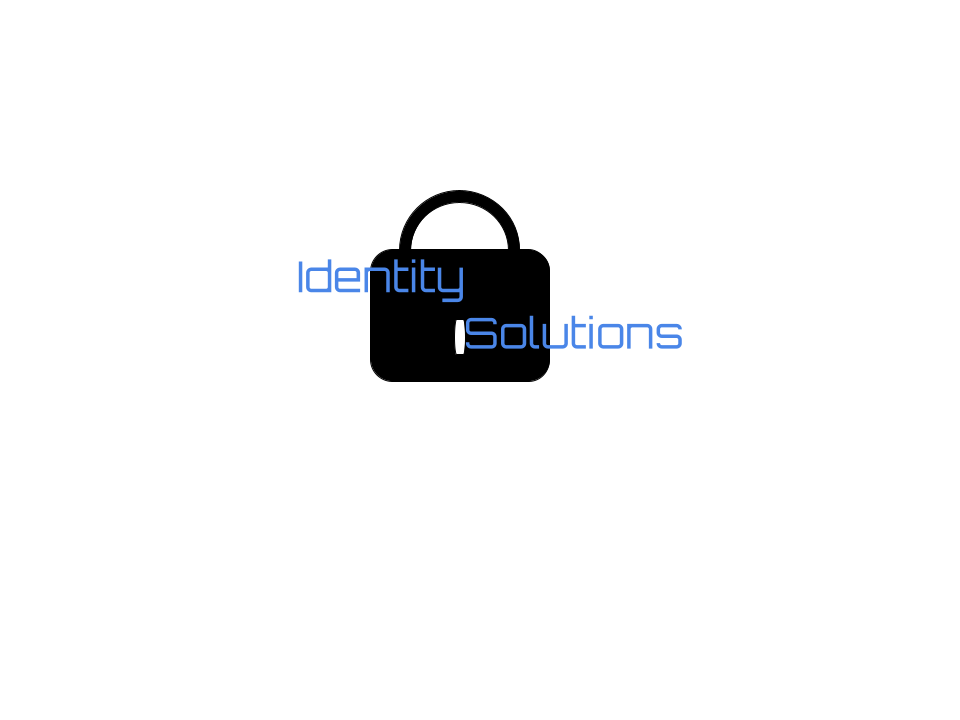
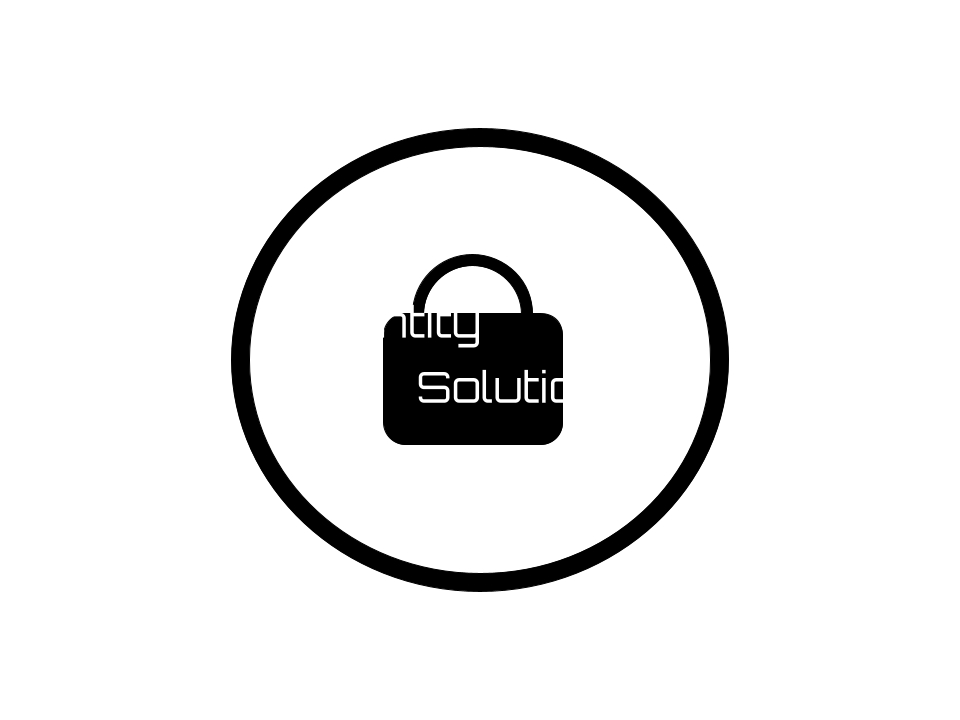
lala

Changed region(s): [[0.2188, 0.1528, 0.7812, 0.825]]

diff --git a/templates/sign_up.html b/templates/sign_up.html
@@ -1,115 +1,50 @@
 <!DOCTYPE html>
 <html lang="en">
-  <head>
+<head>
     <meta charset="UTF-8" />
     <meta name="viewport" content="width=device-width, initial-scale=1.0" />
     <title>Sign Up</title>
-    <style>
-      body {
-          font-family: Arial, sans-serif;
-          background-color: #f2f2f2;
-          margin: 0;
-          padding: 0;
-          display: flex;
-          justify-content: center;
-          align-items: center;
-          height: 100vh;
-      }
-
-      .container {
-          background-color: #fff;
-          border-radius: 8px;
-          box-shadow: 0 0 10px rgba(0, 0, 0, 0.1);
-          padding: 40px;
-          width: 300px;
-      }
-
-      h1 {
-          text-align: center;
-          margin-bottom: 20px;
-          color: #333;
-      }
-
-      form {
-          display: flex;
-          flex-direction: column;
-      }
-
-      input {
-          padding: 10px;
-          margin-bottom: 15px;
-          border: 1px solid #ccc;
-          border-radius: 4px;
-          transition: border-color 0.3s ease;
-      }
-
-      input:focus {
-          border-color: #4caf50;
-      }
-
-      button {
-          padding: 12px;
-          background-color: #4caf50;
-          color: #fff;
-          border: none;
-          border-radius: 4px;
-          cursor: pointer;
-          transition: background-color 0.3s ease;
-      }
-
-      button:hover {
-          background-color: #45a049;
-      }
-
-      button:disabled {
-          background-color: #ccc;
-          cursor: not-allowed;
-      }
-
-      button:disabled:hover {
-          background-color: #ccc;
-      }
-  </style>
-  </head>
-  <body>
+    <link rel="stylesheet" type="text/css" href="{{ url_for('static', filename='stylesheets/sign_up.css') }}">
+</head>
+<body>
     <h1>Sign Up</h1>
     <form id="signupForm" onsubmit="signUp(event)">
-      <input id="username" name="username" placeholder="username" required/>
-      <input id="password" name="password" placeholder="password" required/>
-      <input id="fname" name="fname" placeholder="first name" required/>
-      <input id="lname" name="lname" placeholder="last name" required/>
-      <input type="email" name="email" id="email" placeholder="email" required />
-      <button id="signupBtn" type="submit">Sign Up</button>
+        <input id="username" name="username" placeholder="Username" required/>
+        <input id="password" name="password" placeholder="Password" type="password" required/>
+        <input id="fname" name="fname" placeholder="First Name" required/>
+        <input id="lname" name="lname" placeholder="Last Name" required/>
+        <input type="email" name="email" id="email" placeholder="Email" required />
+        <button id="signupBtn" type="submit">Sign Up</button>
     </form>
-  </body>
+</body>
 
-  <script>
+<script>
     function signUp(event) {
-      event.preventDefault();
+        event.preventDefault();
 
-      const formData = {
-        username: document.getElementById("username").value,
-        password: document.getElementById("password").value,
-        fname: document.getElementById("fname").value,
-        lname: document.getElementById("lname").value,
-        email: document.getElementById("email").value,
-      };
+        const formData = {
+            username: document.getElementById("username").value,
+            password: document.getElementById("password").value,
+            fname: document.getElementById("fname").value,
+            lname: document.getElementById("lname").value,
+            email: document.getElementById("email").value,
+        };
 
-      fetch("/api/add_user/", {
-        method: "POST",
-        body: JSON.stringify(formData),
-        headers: {
-          "Content-Type": "application/json",
-        },
-      })
+        fetch("/api/add_user/", {
+            method: "POST",
+            body: JSON.stringify(formData),
+            headers: {
+                "Content-Type": "application/json",
+            },
+        })
         .then((response) => response.json())
         .then((data) => {
-          if (data.success === false) {
-            alert("Falty signup");
-          } else {
-            window.location.href = data.url;
-          }
+            if (data.success === false) {
+                alert("Faulty signup");
+            } else {
+                window.location.href = data.url;
+            }
         });
     }
-  </script>
+</script>
 </html>

diff --git a/static/stylesheets/sign_up.css b/static/stylesheets/sign_up.css
@@ -1,0 +1,102 @@
+body {
+    margin: 0;
+    padding: 0;
+    display: flex;
+    justify-content: center;
+    align-items: center;
+    min-height: 100vh;
+    font-family: 'Jost', sans-serif;
+    background: linear-gradient(to bottom, #0f0c29, #302b63, #24243e);
+}
+
+.main {
+    width: 350px;
+    height: 500px;
+    background: red;
+    overflow: hidden;
+    background: url("https://doc-08-2c-docs.googleusercontent.com/docs/securesc/68c90smiglihng9534mvqmq1946dmis5/fo0picsp1nhiucmc0l25s29respgpr4j/1631524275000/03522360960922298374/03522360960922298374/1Sx0jhdpEpnNIydS4rnN4kHSJtU1EyWka?e=view&authuser=0&nonce=gcrocepgbb17m&user=03522360960922298374&hash=tfhgbs86ka6divo3llbvp93mg4csvb38") no-repeat center/ cover;
+    border-radius: 10px;
+    box-shadow: 5px 20px 50px #000;
+}
+
+#chk {
+    display: none;
+}
+
+.signup, .login {
+    position: relative;
+    width: 100%;
+    height: 100%;
+}
+
+label {
+    color: #fff;
+    font-size: 2.3em;
+    justify-content: center;
+    display: flex;
+    margin: 60px;
+    font-weight: bold;
+    cursor: pointer;
+    transition: .5s ease-in-out;
+}
+
+input {
+    width: 60%;
+    height: 20px;
+    background: #e0dede;
+    justify-content: center;
+    display: flex;
+    margin: 20px auto;
+    padding: 10px;
+    border: none;
+    outline: none;
+    border-radius: 5px;
+}
+
+button {
+    width: 60%;
+    height: 40px;
+    margin: 10px auto;
+    justify-content: center;
+    display: block;
+    color: #fff;
+    background: #573b8a;
+    font-size: 1em;
+    font-weight: bold;
+    margin-top: 20px;
+    outline: none;
+    border: none;
+    border-radius: 5px;
+    transition: .2s ease-in;
+    cursor: pointer;
+}
+
+button:hover {
+    background: #6d44b8;
+}
+
+.login {
+    height: 460px;
+    background: #eee;
+    border-radius: 60% / 10%;
+    transform: translateY(-180px);
+    transition: .8s ease-in-out;
+}
+
+.login label {
+    color: #573b8a;
+    transform: scale(.6);
+}
+
+#chk:checked ~ .login {
+    transform: translateY(-500px);
+}
+
+#chk:checked ~ .login label {
+    transform: scale(1);    
+}
+
+#chk:checked ~ .signup label {
+    transform: scale(.6);
+}
+

diff --git a/templates/home.html b/templates/home.html
@@ -26,6 +26,7 @@
     <div class="container">
         <h2>Identity Solutions</h2>
         <p>Identity Solutions: Trust, Verify, Connect</p>
+        <img src="{{ url_for('static', filename='IdentitySolutions.png') }}" alt="Feature 1">
     </div>
 </section>
 
@@ -33,7 +34,6 @@
     <div class="container">
         <h2>About Us</h2>
         <div class="feature-item">
-            <img src="{{ url_for('static', filename='IdentitySolutions.png') }}" alt="Feature 1">
             <p>Welcome to Identity Solutions, your premier online destination for secure identity verification and social media
               account authentication. Our website offers a comprehensive suite of services designed to streamline the process
               of confirming your identity and verifying your social media presence.</p>

diff --git a/static/stylesheets/home.css b/static/stylesheets/home.css
@@ -18,6 +18,11 @@ body {
     padding: 0 10px; /* Reduce padding */
 }
 
+.logo {
+    width: 200px; /* Adjust width as needed */
+    height: auto; /* Maintain aspect ratio */
+}
+
 header {
     background-color: #333;
     color: #fff;
